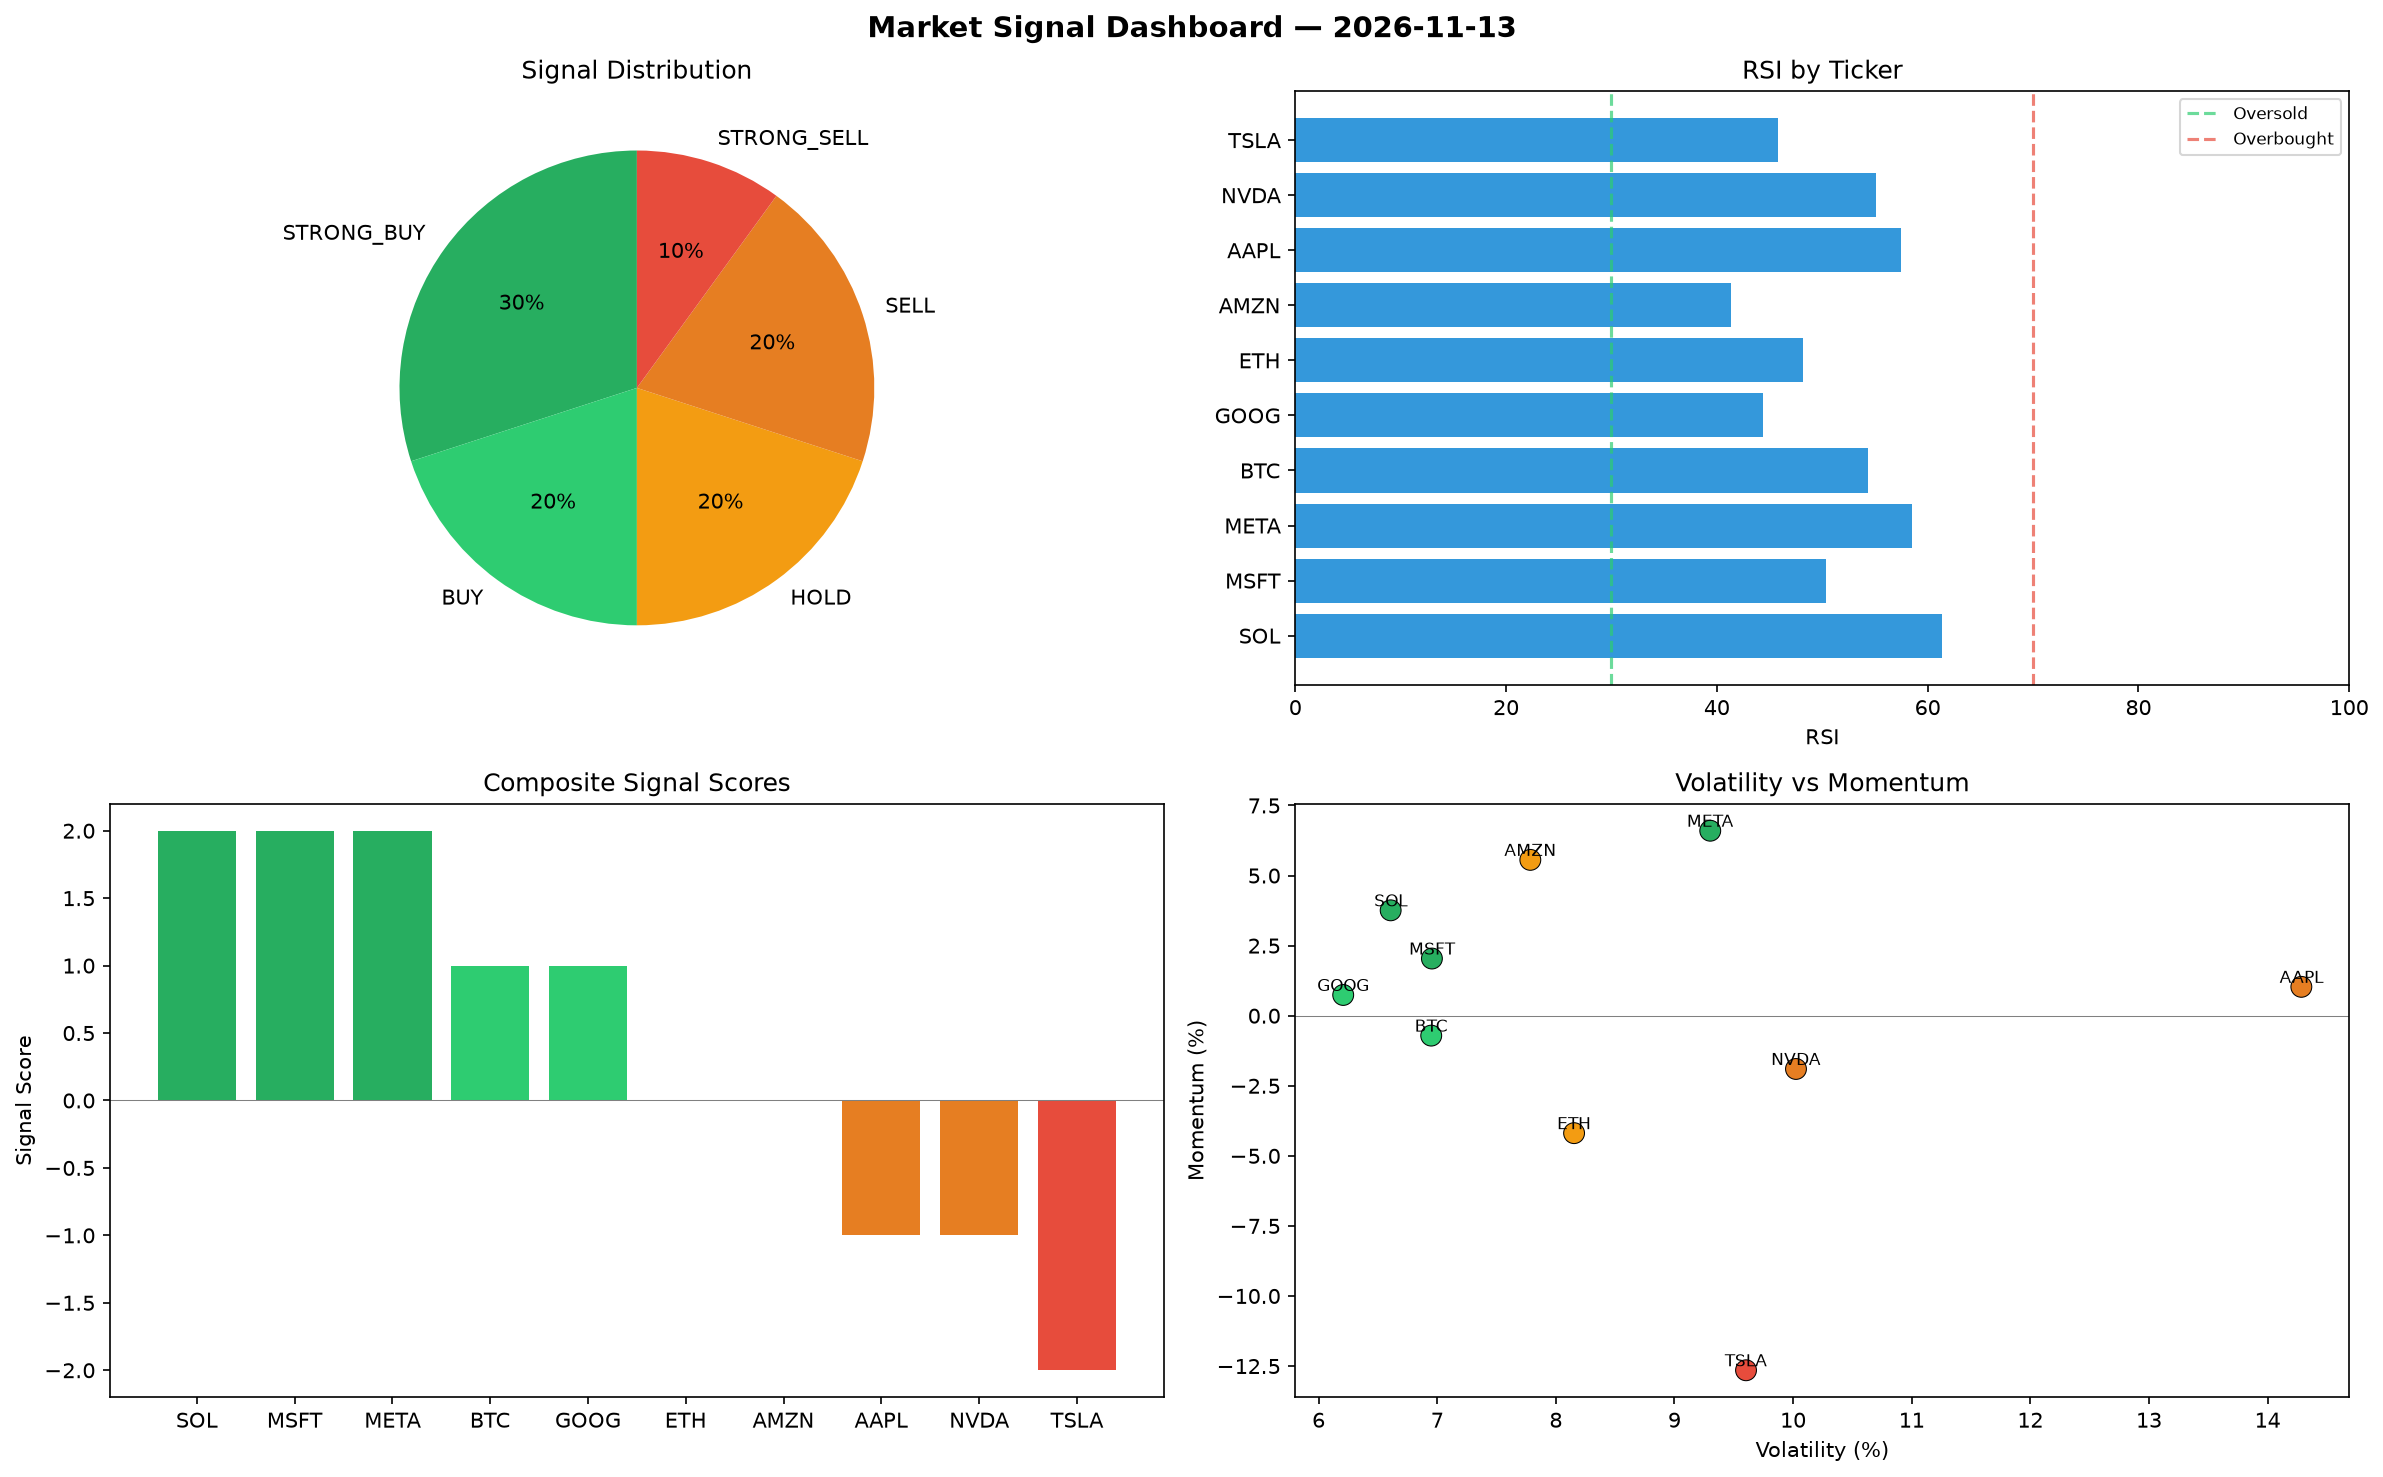
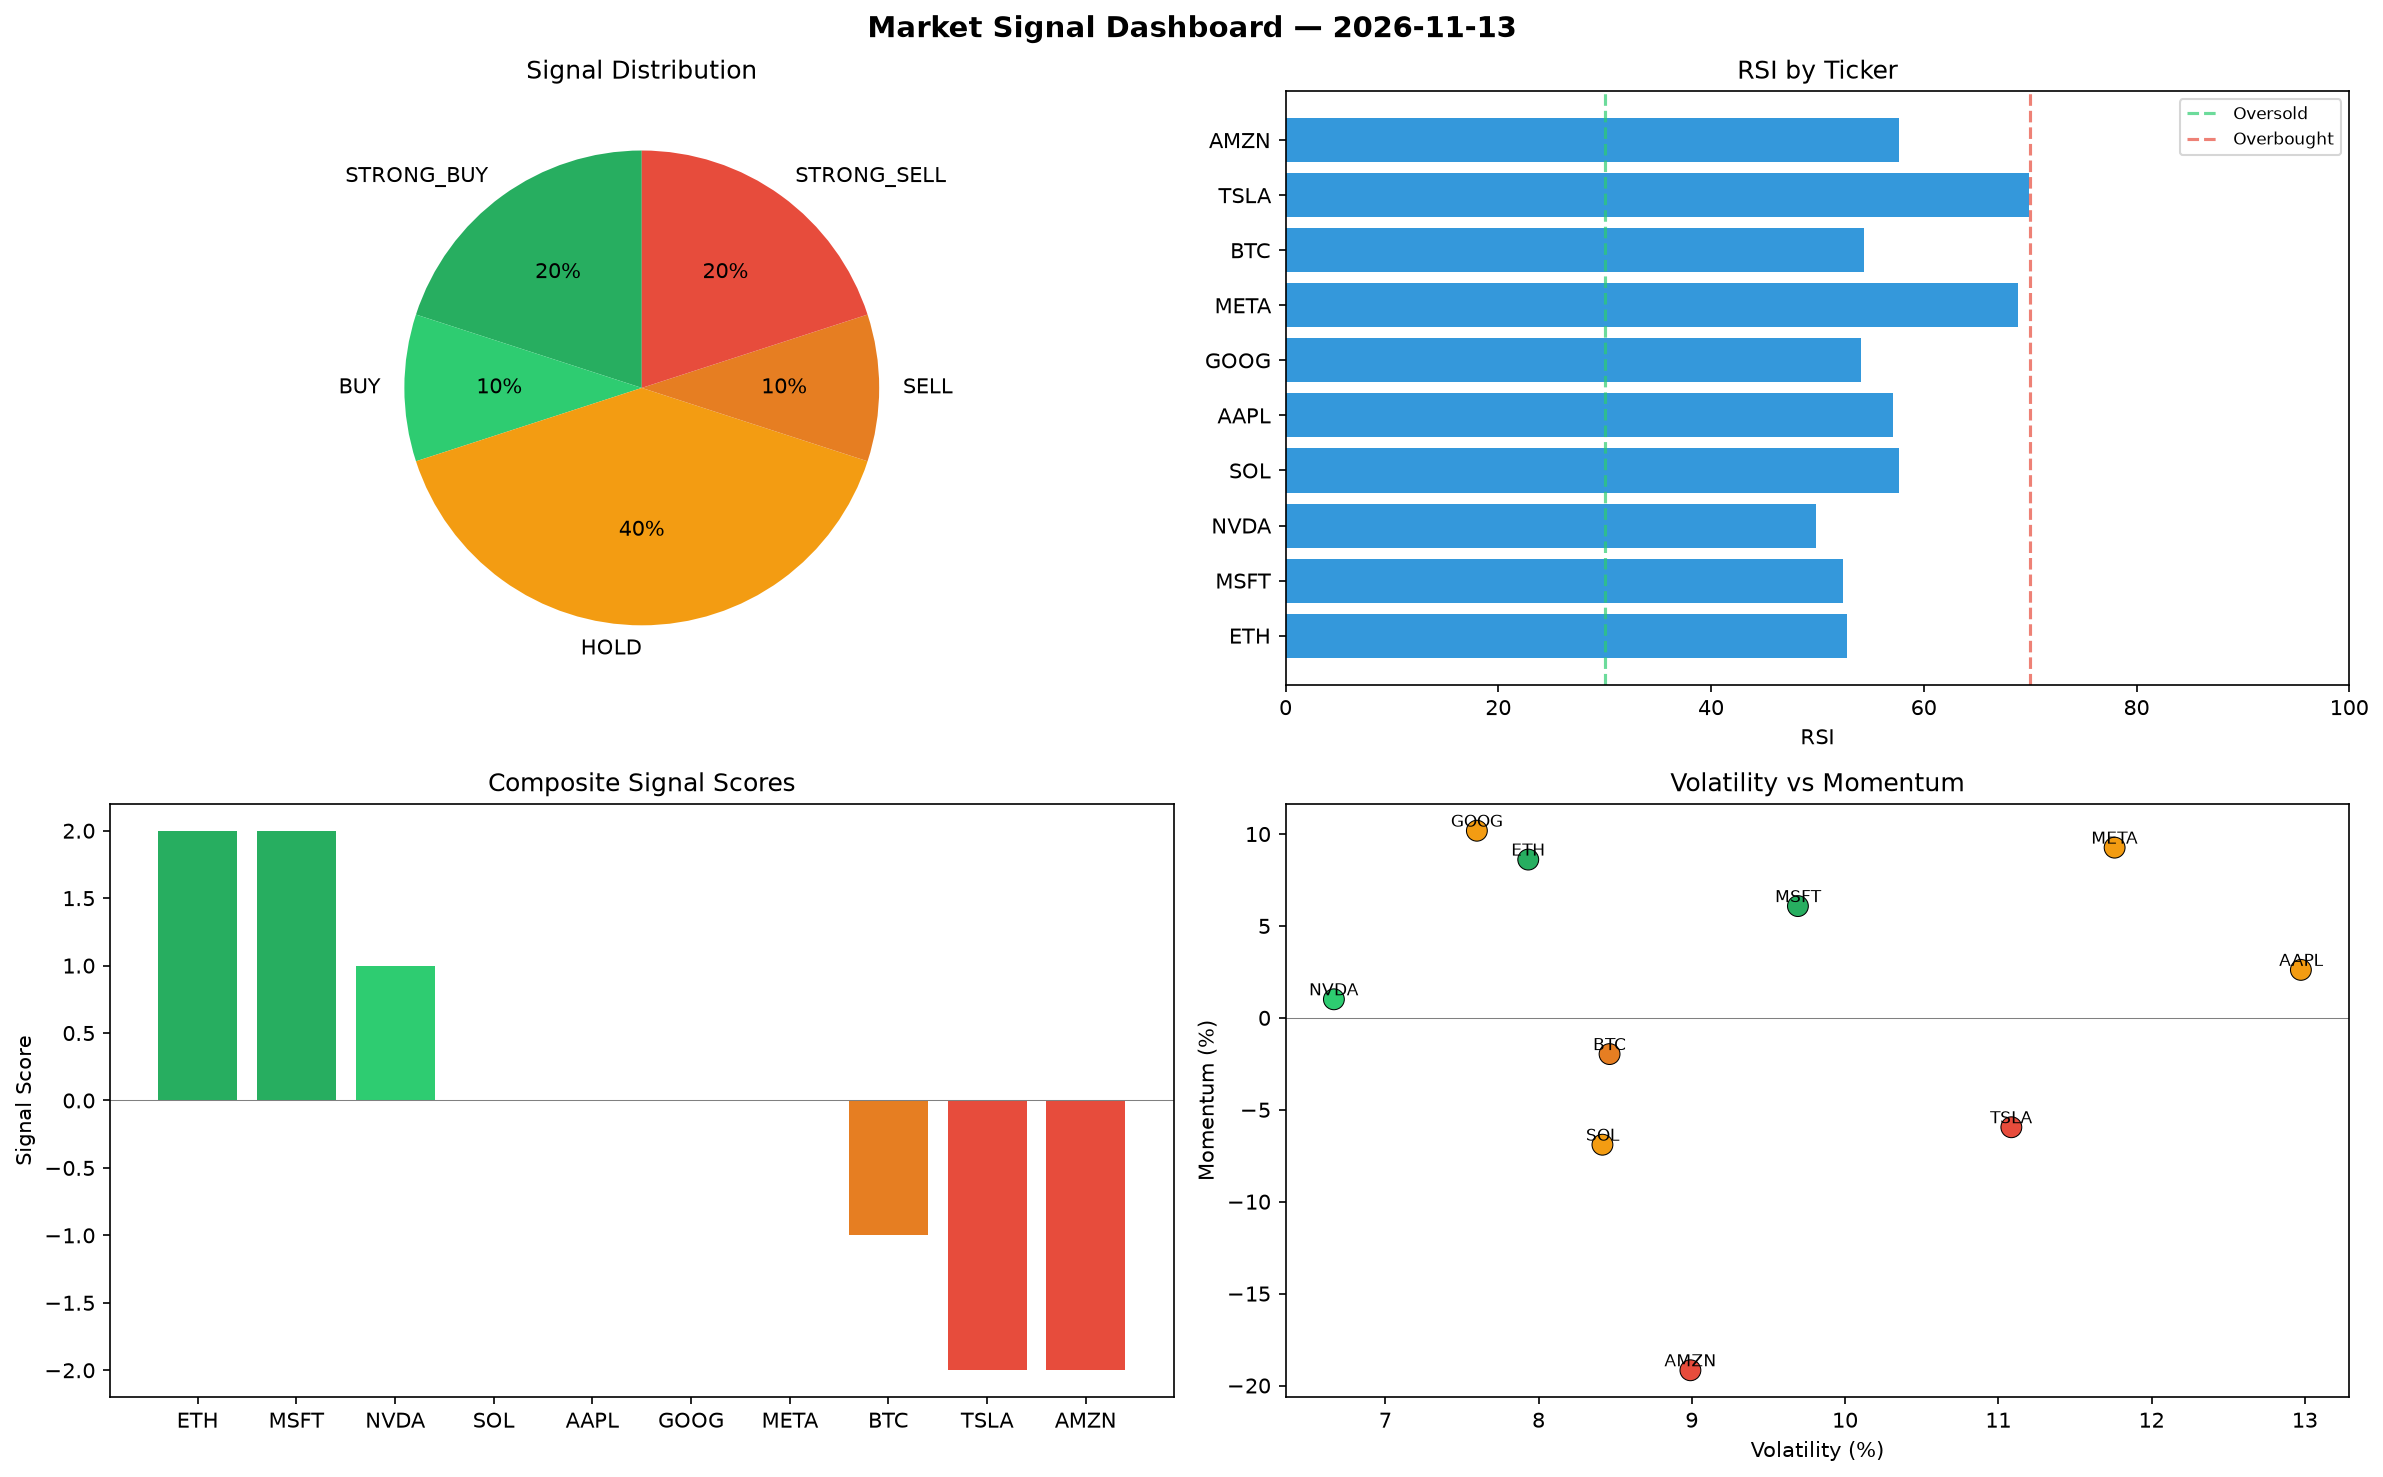
automated-bots: market signals 2026-11-13T16:38

diff --git a/logs/2026-11-13.md b/logs/2026-11-13.md
@@ -1,6 +1,6 @@
 # Market Signal Report — 2026-11-13
 
-**Run ID:** `e55b14062c` | **Buy:** 5 | **Sell:** 3 | **Hold:** 2
+**Run ID:** `bdae8b87c3` | **Buy:** 3 | **Sell:** 3 | **Hold:** 4
 
 ![Dashboard](2026-11-13_dashboard.png)
 
@@ -8,28 +8,28 @@
 
 | Ticker | Price | Signal | Score | RSI | Momentum | Confidence |
 |--------|-------|--------|-------|-----|----------|------------|
-| SOL | $4994.87 | **STRONG_BUY** | 2 | 61.4 | 0.0376 | 0.5 |
-| MSFT | $2920.11 | **STRONG_BUY** | 2 | 50.33 | 0.0204 | 0.5 |
-| META | $1235.24 | **STRONG_BUY** | 2 | 58.47 | 0.066 | 0.5 |
-| BTC | $434.74 | **BUY** | 1 | 54.34 | -0.0071 | 0.25 |
-| GOOG | $1192.6 | **BUY** | 1 | 44.34 | 0.0074 | 0.25 |
-| ETH | $3672.41 | **HOLD** | 0 | 48.21 | -0.0419 | 0.0 |
-| AMZN | $2844.68 | **HOLD** | 0 | 41.36 | 0.0556 | 0.0 |
-| AAPL | $867.82 | **SELL** | -1 | 57.44 | 0.0103 | 0.25 |
-| NVDA | $3093.22 | **SELL** | -1 | 55.07 | -0.019 | 0.25 |
-| TSLA | $4112.18 | **STRONG_SELL** | -2 | 45.79 | -0.1265 | 0.5 |
+| ETH | $510.06 | **STRONG_BUY** | 2 | 52.74 | 0.0861 | 0.5 |
+| MSFT | $4087.89 | **STRONG_BUY** | 2 | 52.36 | 0.0608 | 0.5 |
+| NVDA | $1129.07 | **BUY** | 1 | 49.88 | 0.0101 | 0.25 |
+| SOL | $4175.54 | **HOLD** | 0 | 57.69 | -0.069 | 0.0 |
+| AAPL | $4583.77 | **HOLD** | 0 | 57.13 | 0.0261 | 0.0 |
+| GOOG | $753.7 | **HOLD** | 0 | 54.1 | 0.1018 | 0.0 |
+| META | $4363.42 | **HOLD** | 0 | 68.82 | 0.0926 | 0.0 |
+| BTC | $2676.1 | **SELL** | -1 | 54.39 | -0.0197 | 0.25 |
+| TSLA | $3855.29 | **STRONG_SELL** | -2 | 69.86 | -0.0595 | 0.5 |
+| AMZN | $2882.36 | **STRONG_SELL** | -2 | 57.71 | -0.1917 | 0.5 |
 
 ## Delta vs Yesterday
 
 | Ticker | Today | Yesterday | Price Change | Signal Changed |
 |--------|-------|-----------|-------------|----------------|
-| SOL | STRONG_BUY | STRONG_BUY | 📈 332.89% | — |
-| MSFT | STRONG_BUY | STRONG_BUY | 📈 6.07% | — |
-| META | STRONG_BUY | STRONG_BUY | 📉 -60.09% | — |
-| BTC | BUY | HOLD | 📉 -72.4% | ⚠ YES |
-| GOOG | BUY | BUY | 📉 -55.14% | — |
-| ETH | HOLD | STRONG_SELL | 📈 82.97% | ⚠ YES |
-| AMZN | HOLD | HOLD | 📈 53.93% | — |
-| AAPL | SELL | STRONG_BUY | 📉 -26.98% | ⚠ YES |
-| NVDA | SELL | STRONG_SELL | 📈 76.78% | ⚠ YES |
-| TSLA | STRONG_SELL | HOLD | 📉 -9.19% | ⚠ YES |
+| ETH | STRONG_BUY | STRONG_SELL | 📉 -74.59% | ⚠ YES |
+| MSFT | STRONG_BUY | STRONG_BUY | 📈 48.49% | — |
+| NVDA | BUY | STRONG_SELL | 📉 -35.47% | ⚠ YES |
+| SOL | HOLD | STRONG_BUY | 📈 261.88% | ⚠ YES |
+| AAPL | HOLD | STRONG_BUY | 📈 285.69% | ⚠ YES |
+| GOOG | HOLD | BUY | 📉 -71.65% | ⚠ YES |
+| META | HOLD | STRONG_BUY | 📈 40.98% | ⚠ YES |
+| BTC | SELL | HOLD | 📈 69.87% | ⚠ YES |
+| TSLA | STRONG_SELL | HOLD | 📉 -14.87% | ⚠ YES |
+| AMZN | STRONG_SELL | HOLD | 📈 55.97% | ⚠ YES |
